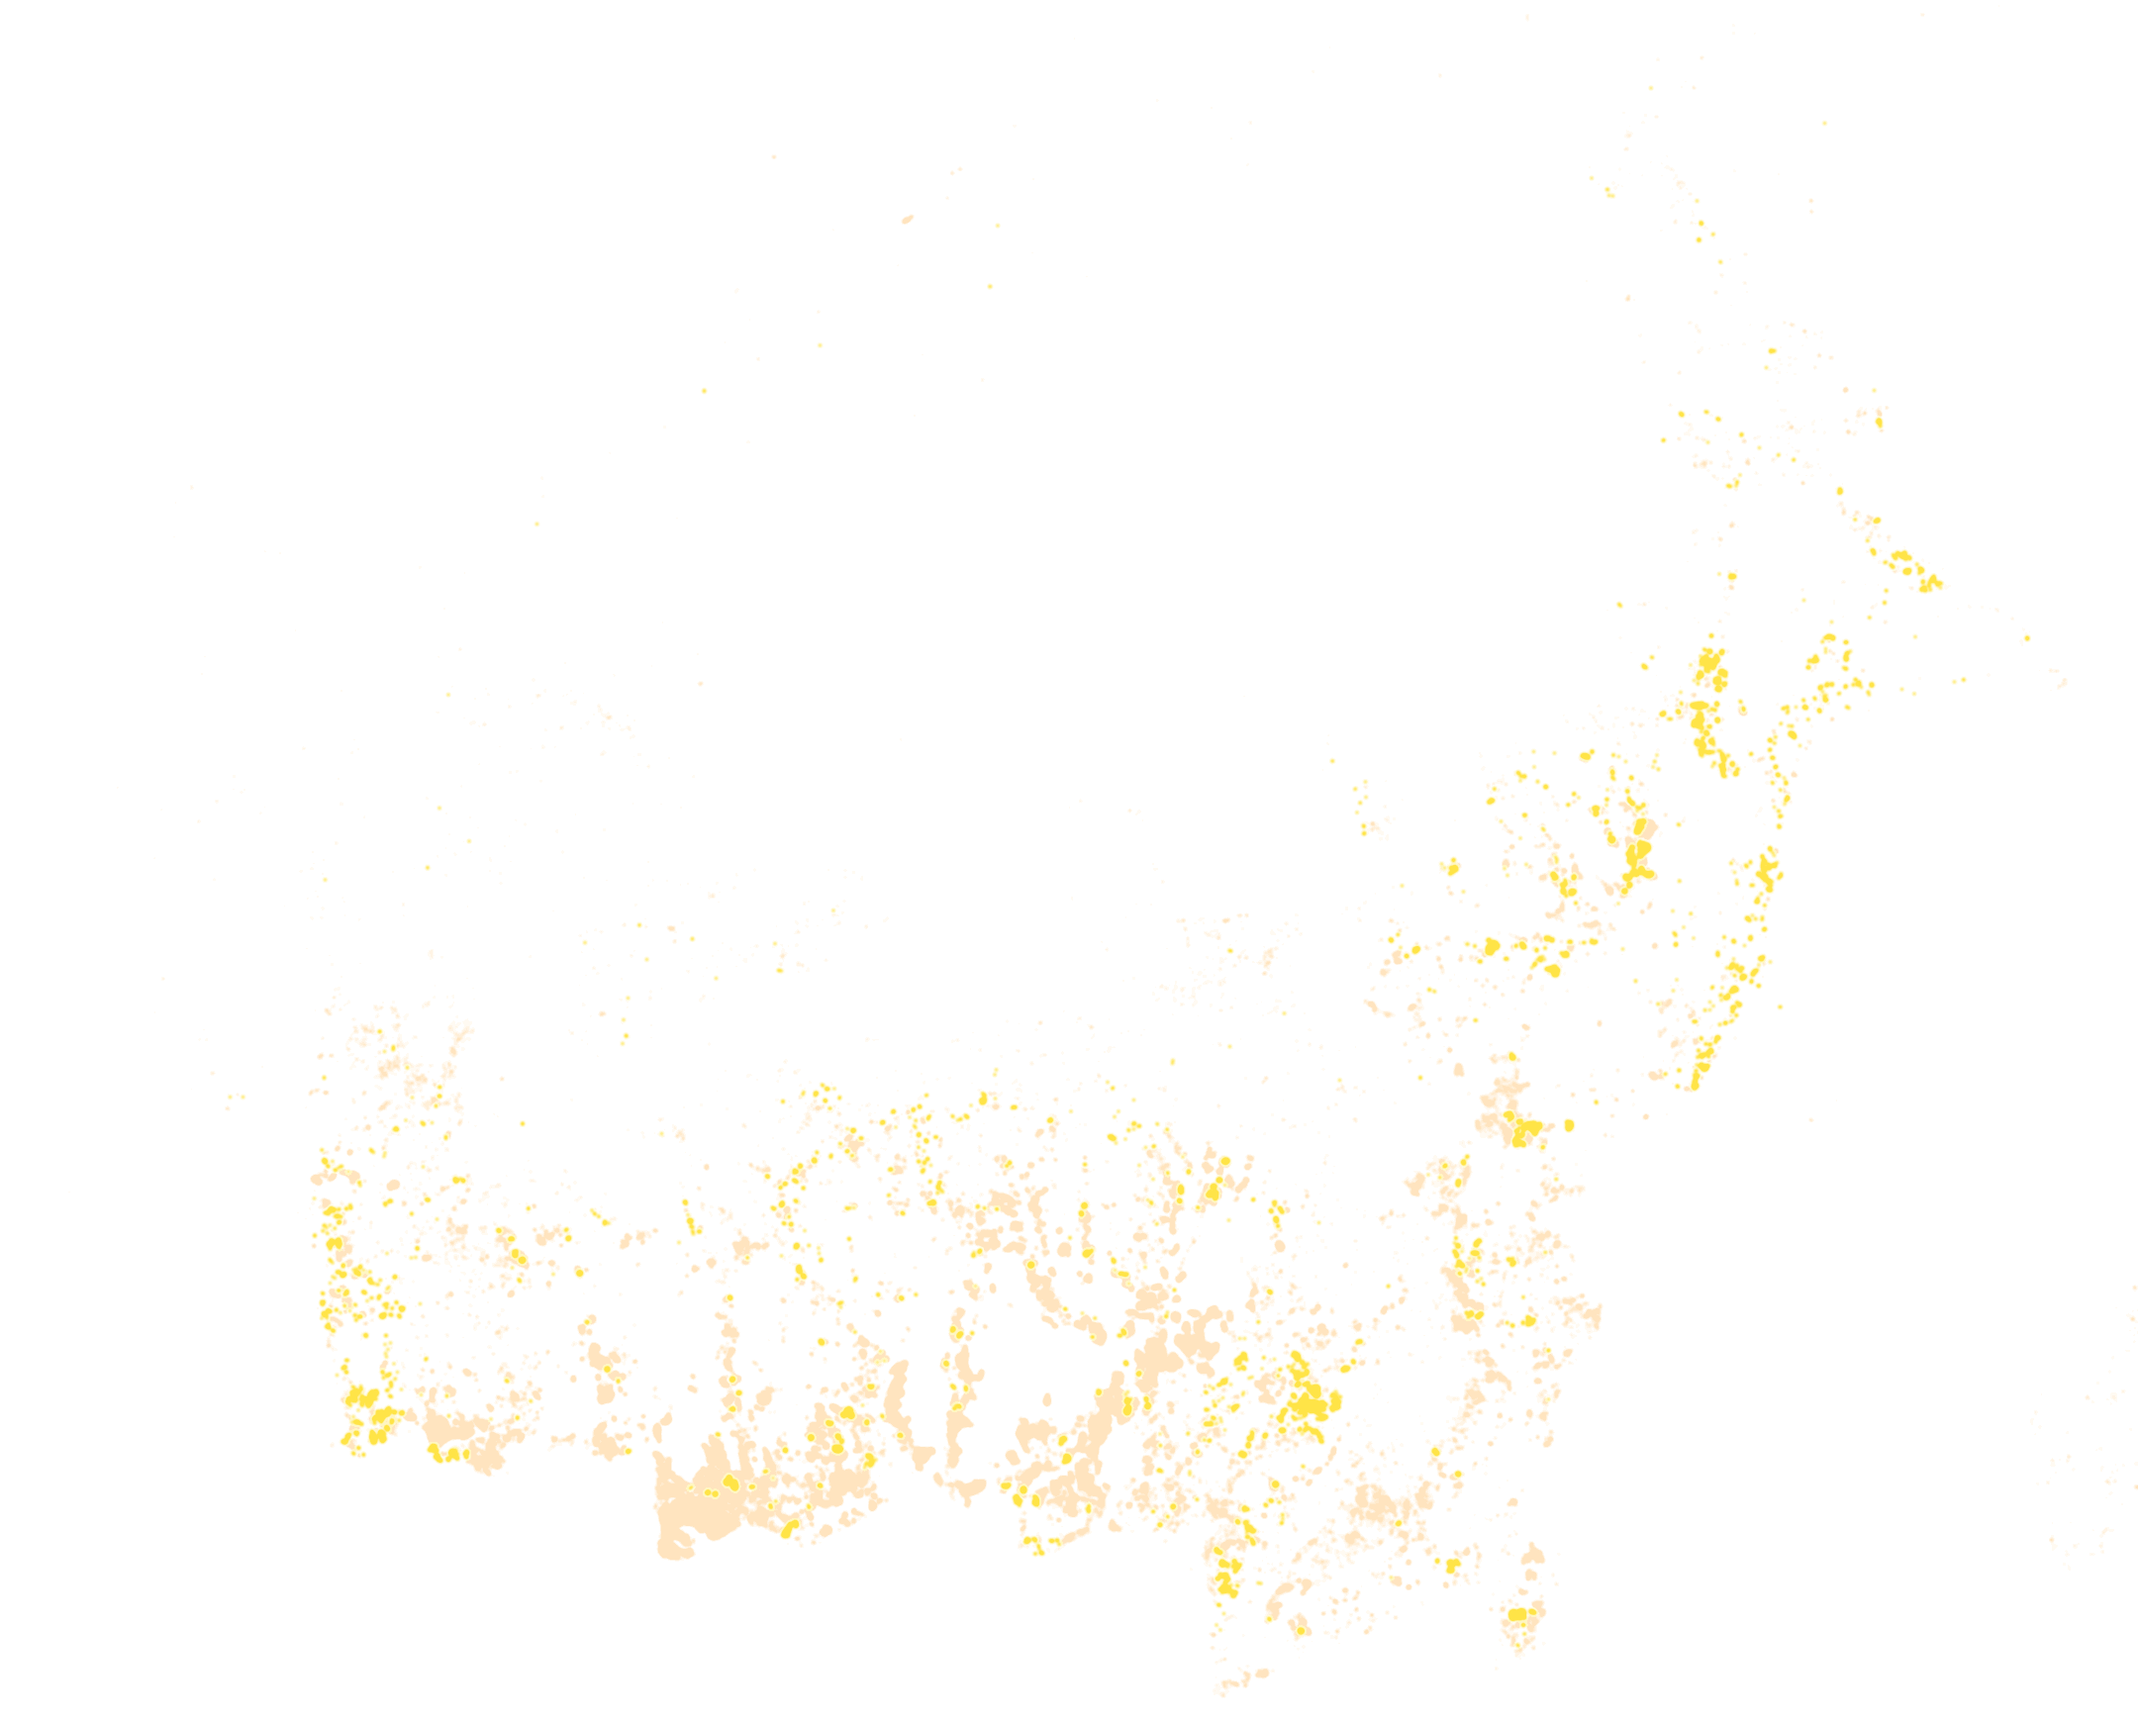
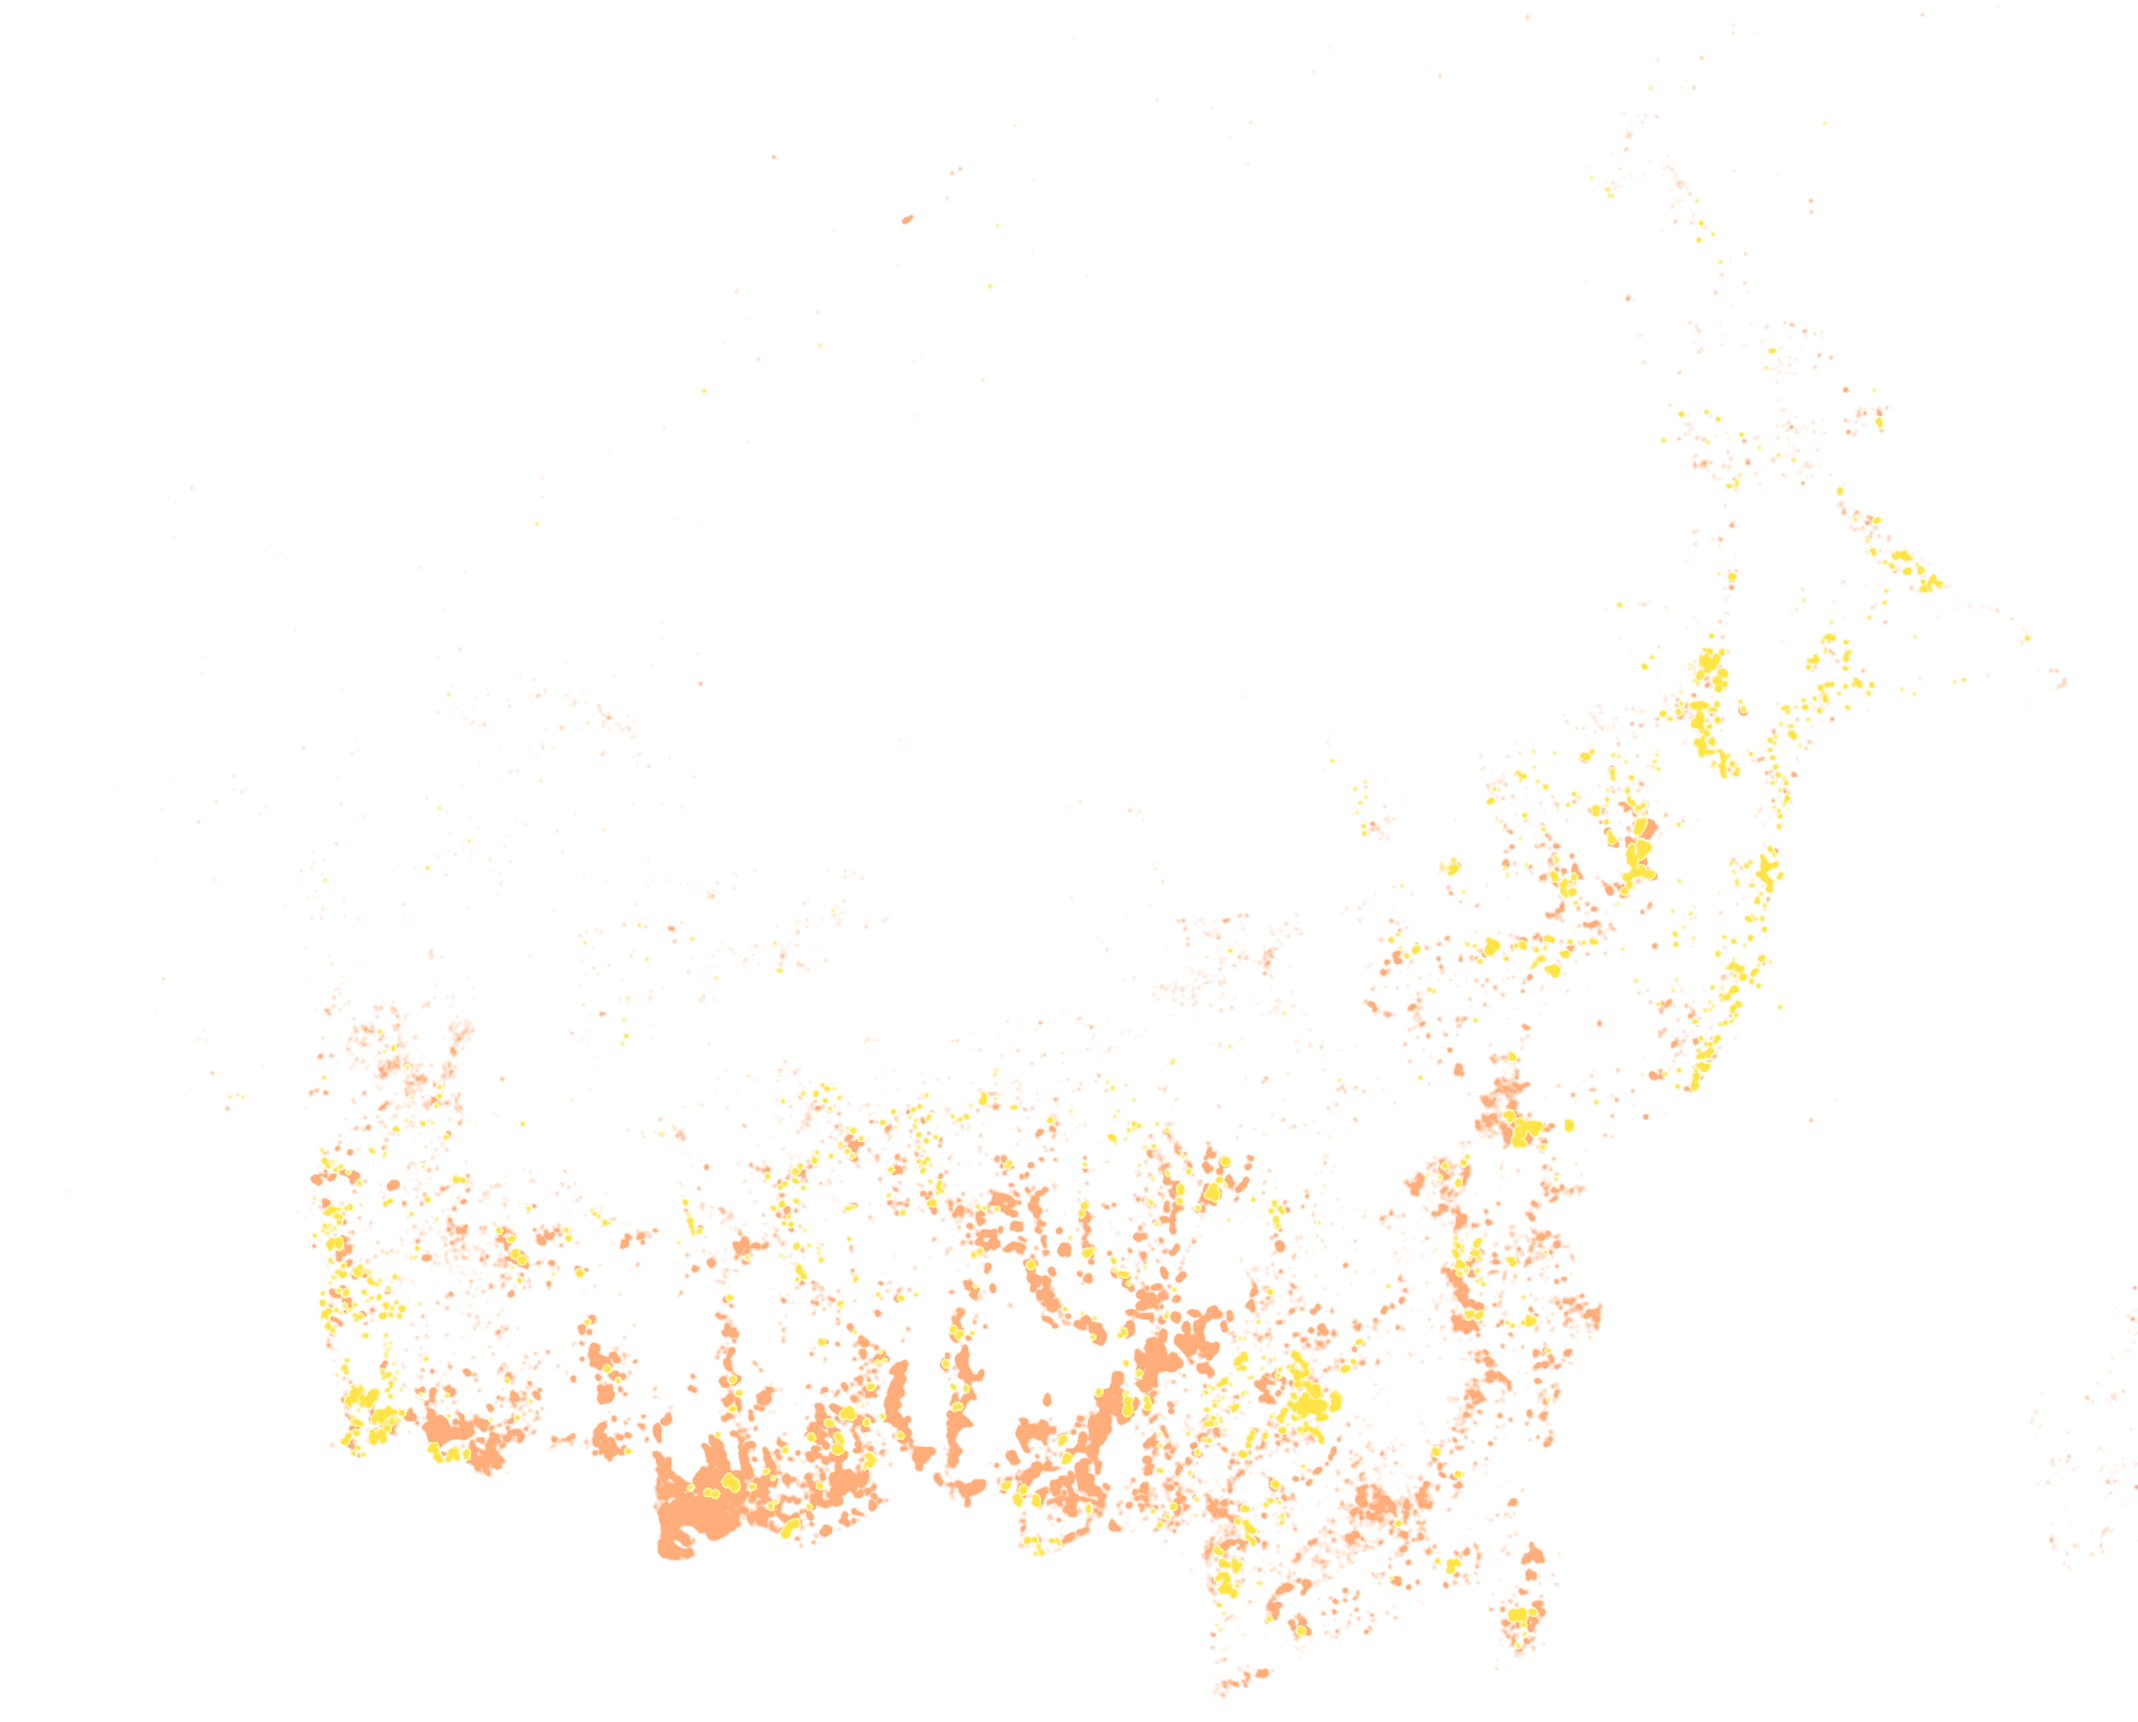
Fix review round 6: orange fire fields, image retry, lazy history, CO lands on September
Other-fire fields saturated orange (weaker tints mixed to khaki over green),
key matched. Every per-step image retries once with a cache-buster after an
error. The 27 MB click-history images load on first click, not at startup;
base map palettized (11.3 MB to 1.4 MB). Switching chapter 1 to fire gas
lands on Sep 9-20, where the plume has shape. Chart range +5% to -25%, HV
bold, HH thin, label off the 'now' line. Phone: CO chips without units,
chapter 4 scrolls to the big number. City line wraps whole entries.

diff --git a/web/app.js b/web/app.js
@@ -32,7 +32,9 @@
   L.imageOverlay("data/base_hv.png", bounds, { pane: "radar", className: "pixelated fadetop" }).addTo(map);
   L.imageOverlay("data/peat.png", bounds, { pane: "peat" }).addTo(map);  // smoothed: the peat map's 9 km cells read as blocks otherwise
   // One overlay per step for each time layer, all preloaded; only the current step is visible.
-  const perStep = (prefix, b, p, cls) => steps.map((s) => L.imageOverlay(`data/${prefix}_${pad(s.step)}.png`, b, { opacity: 0, pane: p, className: cls }).addTo(map));
+  // One retry with a cache-buster if an image fails (a busy CDN can answer 503 once); otherwise a step stays blank.
+  const retry = (o) => o.once("error", () => setTimeout(() => o.setUrl(`${o._url.split("?")[0]}?r=${Date.now()}`), 1500));
+  const perStep = (prefix, b, p, cls) => steps.map((s) => { const o = L.imageOverlay(`data/${prefix}_${pad(s.step)}.png`, b, { opacity: 0, pane: p, className: cls }); retry(o); return o.addTo(map); });
   const loss = perStep("loss", bounds, "loss", "pixelated");
   const peatburn = perStep("peatburn", bounds, "peatburn", "pixelated");
   const smoke = meta.smoke ? perStep("smoke", region, "smoke", "feather") : [];
@@ -55,7 +57,7 @@
   const level = (v) => v == null ? "none" : view.gas === "co"
     ? (v >= 200 ? "thick" : v >= 110 ? "hazy" : "clear")   // CO: June is about 80 ppbv
     : (v >= 2 ? "thick" : v >= 0.3 ? "hazy" : "clear");    // haze: matches the scale bar
-  const fmtReading = (v) => v == null ? "no reading" : view.gas === "co" ? `${v} ppb` : v.toFixed(1);
+  const fmtReading = (v) => v == null ? "no reading" : view.gas === "co" ? (narrow() ? `${v}` : `${v} ppb`) : v.toFixed(1);
   let current = 0;
   function render() {
     const show = (el, on, o = 1) => { el.style.opacity = on ? o : 0; };
@@ -105,7 +107,7 @@
       co2short: s.co2_mt ? `${fmtMt(s.co2_lo)} to ${fmtMt(s.co2_hi)}` : "",
       cars: s.cars_m >= 0.05 ? `like ${s.cars_m.toFixed(1)} million cars for a year` : "",
       cities: cityMarkers.filter((x) => reading(x.name, i) != null).sort((a, b) => reading(b.name, i) - reading(a.name, i)).slice(0, 3)
-        .map((x) => `${x.name} <b>${fmtReading(reading(x.name, i))}</b>`).join(" · ") || "no readings this step",
+        .map((x, j) => `<span class="cv">${j ? "· " : ""}${x.name} <b>${fmtReading(reading(x.name, i))}</b></span>`).join(" ") || "no readings this step",
     };
     document.querySelectorAll("[data-live]").forEach((el) => { el.innerHTML = live[el.dataset.live] ?? ""; });
     render();
@@ -136,7 +138,9 @@
   // --- Probe chart.
   let probeAt = null;
   const probe = { hv: [], hh: [], forest: null, loss: null, w: 0, h: 0, ready: false };
-  (async () => {
+  let probeStarted = false;
+  async function loadProbe() {  // 24 history images (27 MB): fetched on first use, not at startup
+    if (probeStarted) return; probeStarted = true;
     const load = (src) => new Promise((ok, fail) => { const im = new Image(); im.onload = () => ok(im); im.onerror = fail; im.src = src; });
     const read = (im) => {
       const c = document.createElement("canvas"); c.width = im.width; c.height = im.height;
@@ -151,8 +155,8 @@
       probe.forest = read(await load("data/probe_forest.png"));
       probe.loss = read(await load("data/probe_loss.png"));
       probe.ready = true;
-    } catch (e) { /* no probe layers: clicks do nothing */ }
-  })();
+    } catch (e) { probeStarted = false; /* a failed image: the next click tries again */ }
+  }
   function sampleAt(latlng) {
     const x = Math.floor((latlng.lng - bounds.getWest()) / (bounds.getEast() - bounds.getWest()) * probe.w);
     const y = Math.floor((bounds.getNorth() - latlng.lat) / (bounds.getNorth() - bounds.getSouth()) * probe.h);
@@ -169,7 +173,8 @@
     }
     return { hv: v(probe.hv), hh: v(probe.hh), flagged };
   }
-  function openProbe(latlng, title, series, quiet) {
+  async function openProbe(latlng, title, series, quiet) {
+    if (!series && !probe.ready) { $("probe").hidden = false; $("probeTitle").textContent = "Loading radar history…"; $("chart").innerHTML = ""; $("probeNote").textContent = ""; await loadProbe(); }
     const s = series || (probe.ready ? sampleAt(latlng) : null);
     if (s && s.none) {
       marker.remove(); probeAt = null;
@@ -192,7 +197,7 @@
     const el = $("probe");
     el.hidden = false;
     el.style.scrollMarginBottom = `${document.querySelector(".dock").offsetHeight + 12}px`;
-    requestAnimationFrame(() => el.scrollIntoView({ behavior: "smooth", block: "end" }));
+    requestAnimationFrame(() => el.scrollIntoView({ behavior: "smooth", block: "nearest" }));
   }
   function closeProbe() { $("probe").hidden = true; marker.remove(); probeAt = null; }
   map.on("click", (e) => {
@@ -213,7 +218,7 @@
     const rel = (pts) => pts.map(([d, v]) => [d, (v - pts[0][1]) / pts[0][1] * 100]);
     const hv = rel(probeAt.hv), hh = rel(probeAt.hh);
     const vals = [...hv, ...hh].map((p) => p[1]);
-    const lo = Math.min(-25, Math.floor(Math.min(...vals) / 5) * 5 - 5), hi = Math.max(25, Math.ceil(Math.max(...vals) / 5) * 5 + 5);
+    const lo = Math.min(-25, Math.floor(Math.min(...vals) / 5) * 5 - 5), hi = Math.max(5, Math.ceil(Math.max(...vals) / 5) * 5 + 5);
     const ys = (v) => t + (1 - (v - lo) / (hi - lo)) * (H - t - b);
     const path = (pts) => pts.map(([d, v], i) => (i ? "L" : "M") + `${xs(d)},${ys(v)}`).join("");
     const dots = (pts, cls) => pts.map(([d, v]) => `<circle class="${cls}" cx="${xs(d)}" cy="${ys(v)}" r="2"/>`).join("");
@@ -226,7 +231,7 @@
         `<text x="${l - 3}" y="${ys(v) + 3}" text-anchor="end">${v > 0 ? "+" : ""}${v}%</text>`).join("") +
       months.slice(1).map((m) => `<text x="${xs(m + "-01")}" y="${H - 6}" text-anchor="middle">${new Date(m + "-15T00:00:00Z").toLocaleDateString("en-US", { month: "short", timeZone: "UTC" })}</text>`).join("") +
       `<line class="now" x1="${xs(now)}" x2="${xs(now)}" y1="${t}" y2="${H - b}"/>` +
-      `<text x="${W - r}" y="${t + 8}" text-anchor="end">change since June</text>` +
+      `<text x="${l + 4}" y="${t + 8}">change since June</text>` +
       `<path class="hh" d="${path(hh)}"/><path class="hv" d="${path(hv)}"/>` + dots(hh, "hh") + dots(hv, "hv");
     // The verdict follows the loss map, so the chart never contradicts the red; the % is context.
     const upto = hv.filter(([d]) => d <= now);
@@ -244,7 +249,8 @@
     const [la, lo] = KETAPANG;
     flyTo(L.latLngBounds([[la - 0.25, lo - 0.3], [la + 0.25, lo + 0.3]]), { duration: 1.4 });  // centred in the visible map
     if (arrive) map.off("moveend", arrive);
-    arrive = () => { arrive = null; openProbe(L.latLng(KETAPANG), "Ketapang peat dome", meta.ketapang_series, chapter < EXPLORE && !narrow()); };
+    arrive = () => { arrive = null; openProbe(L.latLng(KETAPANG), "Ketapang peat dome", meta.ketapang_series, chapter < EXPLORE);
+    if (chapter < EXPLORE && narrow()) document.querySelector("#chWidget .big")?.scrollIntoView({ behavior: "smooth", block: "start" }); };
     map.once("moveend", arrive);
   };
 
@@ -358,7 +364,9 @@
     const b = e.target.closest("[data-gas]");
     if (!b) return;
     view.gas = b.dataset.gas;
-    setStep(current);
+    stop();
+    // October is near the top of the CO scale everywhere; mid-September shows the plume's shape.
+    setStep(view.gas === "co" && chapter === 0 ? 7 : current);
   });
 
   // Explore controls.

diff --git a/web/style.css b/web/style.css
@@ -94,8 +94,8 @@ h2 { margin: 0 0 10px; font-size: 30px; line-height: 1.1; letter-spacing: -0.015
 #chart { width: 100%; height: auto; margin-top: 6px; }
 #chart text { fill: var(--muted); font-size: 9px; }
 #chart .grid { stroke: var(--line); }
-#chart path.hv { stroke: var(--hv); fill: none; stroke-width: 2.5; }
-#chart path.hh { stroke: var(--hh); fill: none; stroke-width: 2.5; }
+#chart path.hv { stroke: var(--hv); fill: none; stroke-width: 3; }
+#chart path.hh { stroke: #7f95c4; fill: none; stroke-width: 1.5; }
 #chart circle.hv { fill: var(--hv); }
 #chart circle.hh { fill: var(--hh); }
 #chart .now { stroke: var(--loss); stroke-dasharray: 3 3; }
@@ -155,7 +155,7 @@ h2 { margin: 0 0 10px; font-size: 30px; line-height: 1.1; letter-spacing: -0.015
 .bars.two { grid-template-columns: 1fr 1fr; gap: 10px; }
 .bars.two .bar { margin-top: 0; }
 .key.fire { background: #ffe23c; }
-.key.firefaint { background: radial-gradient(circle, rgba(255,170,50,0.75), rgba(255,170,50,0.15)); }
+.key.firefaint { background: rgba(255, 110, 20, 0.7); }
 .leaflet-fires-pane.glow { filter: drop-shadow(0 0 1.5px #ffd23c) drop-shadow(0 0 3px rgba(255, 210, 60, 0.7)); }
 .fadetop { -webkit-mask-image: linear-gradient(to bottom, transparent 1%, #000 5%); mask-image: linear-gradient(to bottom, transparent 1%, #000 5%); }
 .headline { display: flex; align-items: baseline; gap: 10px; margin-bottom: 4px; }
@@ -196,3 +196,4 @@ input[type="checkbox"]:disabled + * , label:has(input:disabled) { opacity: 0.45;
   .cityline { display: none; }        /* the chips on the map carry the same numbers */
   .city-Banjarmasin { transform: translate(-50%, 40%); }
 }
+.cv { white-space: nowrap; }

diff --git a/pipeline/firms.py b/pipeline/firms.py
@@ -247,8 +247,8 @@ def write_layers(points: list[list]) -> None:
         dens_hit = gaussian_filter(binary_dilation(hit, iterations=2).astype(np.float32), 3)
         a_hit = np.clip(dens_hit * 3, 0, 1)
         rgba = np.zeros((*shape, 4), np.uint8)
-        rgba[..., 0], rgba[..., 1], rgba[..., 2] = 255, 170, 50        # other fires: warm orange, see-through (reads as fire, not khaki)
-        rgba[..., 3] = (a_all * 95).astype(np.uint8)
+        rgba[..., 0], rgba[..., 1], rgba[..., 2] = 255, 110, 20        # other fires: saturated orange; weaker mixes to khaki over green
+        rgba[..., 3] = (a_all * 150).astype(np.uint8)
         top = a_hit > 0.05                                              # fires next to a radar burn: solid yellow on top
         rgba[top, 0], rgba[top, 1], rgba[top, 2] = 255, 226, 60
         rgba[top, 3] = np.maximum(rgba[top, 3], (a_hit[top] * 255).astype(np.uint8))

diff --git a/pipeline/mosaic.py b/pipeline/mosaic.py
@@ -203,7 +203,8 @@ def write() -> None:
     fade = round(0.4 / RES)  # the grid stops at 4.4 N inside Sabah: fade the top 0.4 degrees instead of a hard edge
     alpha[:fade] *= np.linspace(0, 1, fade)[:, None]
     alpha = alpha.astype(np.uint8)
-    Image.fromarray(np.dstack([rgb.clip(0, 255).astype(np.uint8), alpha])).save(WEB / "base_hv.png", optimize=True)
+    # 128-colour palette: the base is two hues with texture, so this looks the same at a fraction of 11 MB.
+    Image.fromarray(np.dstack([rgb.clip(0, 255).astype(np.uint8), alpha])).quantize(128, method=Image.Quantize.FASTOCTREE).save(WEB / "base_hv.png", optimize=True)
     # Tree-cover mask at the click-chart resolution (0.01 degrees): the app only draws a chart where there was tree cover.
     k = 4  # 0.0025 -> 0.01 degrees
     h, w = (forest.shape[0] // k) * k, (forest.shape[1] // k) * k
